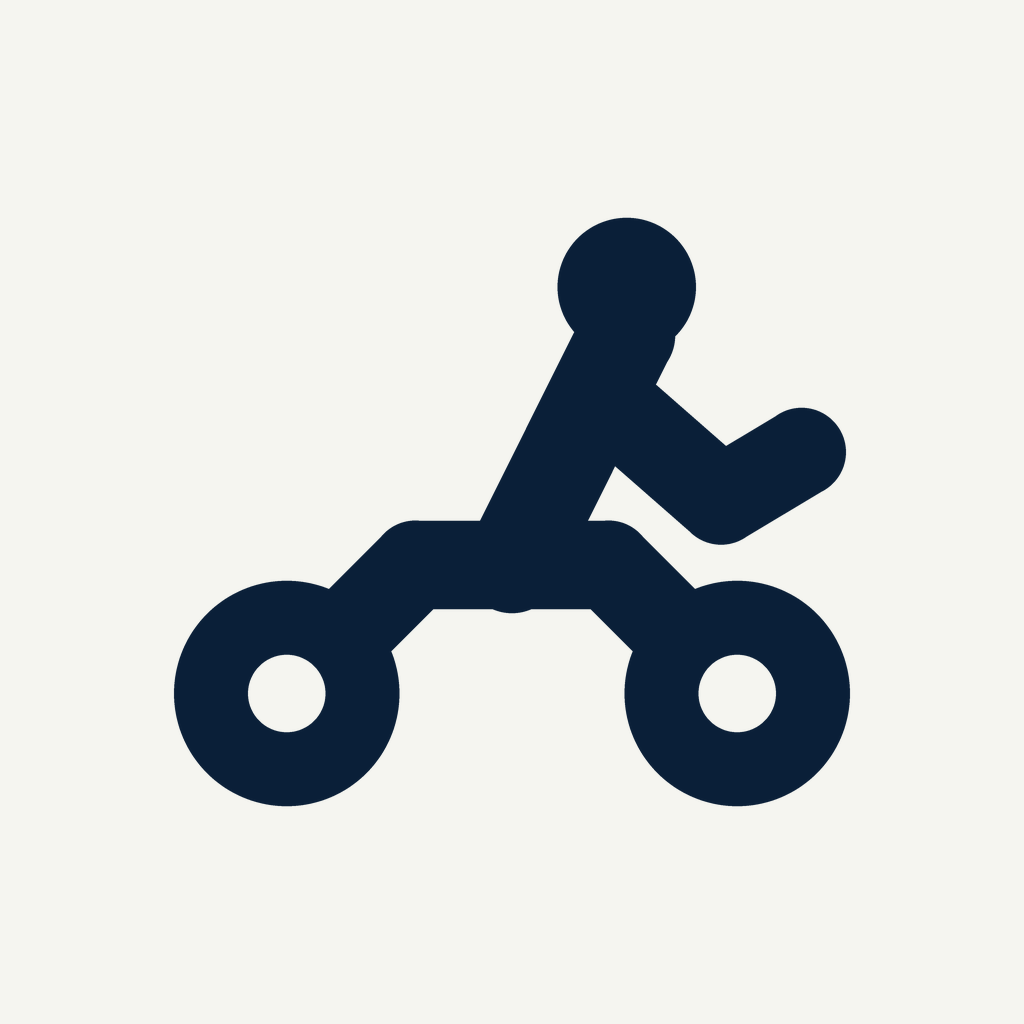
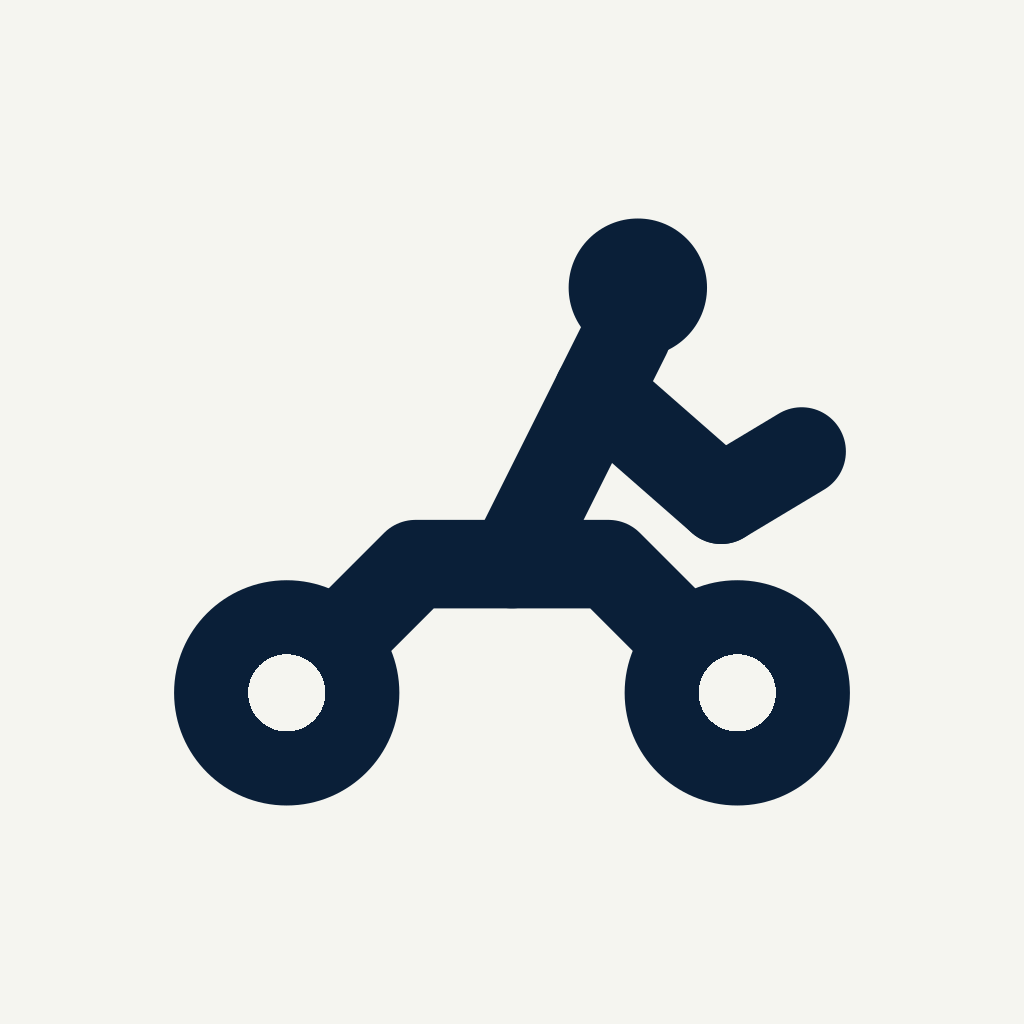
fix(brand): the lobe under the seat, and a neck that met the head crooked
Two faults the founder spotted on the launch screen, both measured on the
shipped PNG before anything was changed, both approved 3 September.

THE LOBE. The torso was stroke 6.0 while the frame is 5.5, so its round cap
reached y=19.00 against a frame rail whose underside sits at 18.75. A
rounded lobe hung below the frame directly under the rider: 0.25 units,
4.06px on the 1024 cut, and I measured about 4px on the asset. The torso is
now 5.5 and the cap lands exactly on the rail.

THE NECK. The head sits 3.0 from the torso's tip and used to sit straight
UP, while the torso arrives at 26.57 degrees off vertical. So the skull met
the neck at a different angle on each side. It is now offset at 13.3
degrees, half the lean: enough to clear the neck on both sides without
throwing the head over the bars. The founder compared five angles and took
this one. Head moves (31.13, -1.26) to (31.82, -1.18).

The locked pick of 30 August is otherwise untouched: A3 weight, run D
15.94, lean 63.4 degrees, even frame, no wordmark. Dots 1 to 9 of the
Okada Dot-to-Dot do not move; only dot 10 does. Ratio 1.150 to 1.159.

There is a third fault I did NOT fix. The head circle and the torso's top
cap cross, and two crossing circles always corner. Removing it needs either
run D shortened to about 14.2, which breaks the locked pick, or the head
grown from r4.3 to r6.0. It is a design trade, not a defect with a free
fix, so it stays.
[…]

diff --git a/seirs-app/scripts/build-mark-assets.js b/seirs-app/scripts/build-mark-assets.js
@@ -1,0 +1,187 @@
+/**
+ * SEIRS mark asset cutter.
+ *
+ *   node scripts/build-mark-assets.js
+ *
+ * Cuts all seven brand assets for all three apps from ONE geometry, below.
+ * Run it after any change to the mark, then rebuild the apps: the splash
+ * updates over the air but the launcher icon is baked into the APK.
+ *
+ * WHY THIS FILE EXISTS. The geometry used to live in three places that had
+ * drifted apart: seirs-icon-square.svg (last touched in the May sweep, still
+ * holding the un-stretched mark at ratio 1.400), the website's SeirsLogo.tsx
+ * (the real one, 1.148), and a build_assets.py that commit ededc06 names as
+ * the cutter but which is not in the repo at all. The shipped PNGs matched
+ * none of the committed sources. One file now, and the SVGs are generated
+ * from it rather than maintained by hand.
+ *
+ * THE GEOMETRY is the founder's locked pick of 30 August 2026: A3 weight,
+ * run D stretched to 15.94, lean 63.4 degrees, even frame, no wordmark.
+ * Two corrections were approved on 3 September:
+ *
+ *   1. Torso stroke 6.0 -> 5.5. At 6.0 its round cap reached y=19.00 while
+ *      the frame rail's underside is at y=18.75, so a rounded lobe hung
+ *      below the frame directly under the rider. 0.25 units, about 4px on
+ *      the 1024 cut. At 5.5 the cap lands exactly on the rail.
+ *
+ *   2. Head moved from (31.13, -1.26) to (31.82, -1.18). The head sits 3.0
+ *      from the torso's tip, and it used to sit straight UP while the torso
+ *      arrives at 26.57 degrees off vertical, so the neck met the skull at a
+ *      different angle on each side. It is now offset at 13.3 degrees, half
+ *      the lean: enough to clear the neck on both sides without throwing the
+ *      head over the bars. Founder picked option C of five.
+ *
+ * Dots 1 to 9 of the founder's Okada Dot-to-Dot are untouched. Only dot 10,
+ * the head centre, moves. Ratio goes 1.150 to 1.159.
+ *
+ * THE HUBS ARE PUNCHED AFTER RENDER, in pixels, not drawn in SVG.
+ *
+ * They have to be real holes: a hub-coloured disc would put an opaque blob
+ * into splash-icon.png where the ground should show through. Three SVG routes
+ * were tried and all three failed. Drawing the wheel as a ring is not enough,
+ * because the frame path STARTS at (10,24), the rear wheel's centre, so its
+ * round cap fills the hub from underneath. An SVG <mask> silently does nothing
+ * here, because putting `mask` and `transform` on the same element makes
+ * librsvg apply the transform to the mask's contents as well, so the cut
+ * circles land somewhere off the canvas. Punching the alpha channel after
+ * rasterising is exact, and it is checked below rather than assumed.
+ */
+
+const sharp = require('sharp');
+const fs    = require('fs');
+const path  = require('path');
+
+const ROOT = path.resolve(__dirname, '..');
+
+// ── The mark ────────────────────────────────────────────────────────────────
+const SW        = 5.5;                 // frame, arm, handlebar, and now torso
+const WHEEL_R   = 7.0;
+const HUB_R     = 2.4;
+const HEAD_R    = 4.3;
+const HEAD      = { x: 31.82, y: -1.18 };   // dot 10, at 13.3 degrees
+
+// Ink extent, in mark units. Left edge is the rear wheel, right edge the
+// front wheel, top the head, bottom the wheels.
+const round3 = (n) => Number(n.toFixed(3));
+const INK = {
+  x: round3(10 - WHEEL_R),
+  y: round3(HEAD.y - HEAD_R),
+  w: round3((38 + WHEEL_R) - (10 - WHEEL_R)),
+  h: round3((24 + WHEEL_R) - (HEAD.y - HEAD_R)),
+};
+
+const paths = (c) => `
+  <path d="M 10 24 L 18 16 L 30 16 L 38 24" stroke="${c}" stroke-width="${SW}"
+        stroke-linecap="round" stroke-linejoin="round" fill="none"/>
+  <circle cx="10" cy="24" r="${WHEEL_R}" fill="${c}"/>
+  <circle cx="38" cy="24" r="${WHEEL_R}" fill="${c}"/>
+  <line x1="37" y1="12" x2="42" y2="9" stroke="${c}" stroke-width="${SW}" stroke-linecap="round"/>
+  <line x1="24" y1="16" x2="31.13" y2="1.74" stroke="${c}" stroke-width="${SW}" stroke-linecap="round"/>
+  <circle cx="${HEAD.x}" cy="${HEAD.y}" r="${HEAD_R}" fill="${c}"/>
+  <line x1="29.35" y1="5.30" x2="37" y2="12" stroke="${c}" stroke-width="${SW}" stroke-linecap="round"/>`;
+
+/** One asset. `fill` is the mark's width as a fraction of the canvas. */
+function svg({ size, ground, mark, fill }) {
+  const s  = (size * fill) / INK.w;
+  const tx = (size - INK.w * s) / 2 - INK.x * s;
+  const ty = (size - INK.h * s) / 2 - INK.y * s;
+  const bg = ground ? `<rect width="${size}" height="${size}" fill="${ground}"/>` : '';
+  const body = `<?xml version="1.0" encoding="UTF-8"?>
+<svg xmlns="http://www.w3.org/2000/svg" width="${size}" height="${size}" viewBox="0 0 ${size} ${size}" fill="none">
+${bg}<g transform="translate(${tx}, ${ty}) scale(${s})">${paths(mark)}</g>
+</svg>`;
+  // where the two hubs land, in pixels, for the punch below
+  const hubs = [[10, 24], [38, 24]].map(([hx, hy]) => ({
+    cx: tx + hx * s, cy: ty + hy * s, r: HUB_R * s,
+  }));
+  return { body, hubs, ground };
+}
+
+/**
+ * Cut the hubs out of the rendered pixels. On a transparent asset the hub
+ * becomes a true hole; on an opaque one it is repainted with the ground, which
+ * is what the eye expects there anyway.
+ */
+async function punchHubs(buf, size, hubs, ground) {
+  const img = sharp(buf).ensureAlpha();
+  const { data, info } = await img.raw().toBuffer({ resolveWithObject: true });
+  const ch = info.channels;
+  const g = ground ? [0xF5, 0xF5, 0xF0] : null;
+  for (const { cx, cy, r } of hubs) {
+    const r2 = r * r;
+    const x0 = Math.max(0, Math.floor(cx - r - 1)), x1 = Math.min(size - 1, Math.ceil(cx + r + 1));
+    const y0 = Math.max(0, Math.floor(cy - r - 1)), y1 = Math.min(size - 1, Math.ceil(cy + r + 1));
+    for (let y = y0; y <= y1; y++) {
+      for (let x = x0; x <= x1; x++) {
+        const d2 = (x + 0.5 - cx) ** 2 + (y + 0.5 - cy) ** 2;
+        if (d2 > r2) continue;
+        const i = (y * info.width + x) * ch;
+        if (g) { data[i] = g[0]; data[i + 1] = g[1]; data[i + 2] = g[2]; data[i + 3] = 255; }
+        else   { data[i + 3] = 0; }
+      }
+    }
+  }
+  return sharp(data, { raw: { width: info.width, height: info.height, channels: ch } }).png().toBuffer();
+}
+
+const NAVY  = '#0A1F38';
+const CLOUD = '#F5F5F0';
+
+// Fills measured off the shipped assets so nothing shifts but the drawing.
+// The adaptive foreground is 0.445 rather than 0.66 because an adaptive
+// icon only shows the middle 72dp of a 108dp layer: 0.66 x 72/108 = 0.44.
+const ASSETS = [
+  { file: 'icon.png',                    size: 1024, ground: CLOUD, mark: NAVY,      fill: 0.660 },
+  { file: 'splash-icon.png',             size: 1024, ground: null,  mark: NAVY,      fill: 0.666 },
+  { file: 'splash-icon-dark.png',        size: 1024, ground: null,  mark: '#FFFFFF', fill: 0.666 },
+  { file: 'android-icon-foreground.png', size: 1024, ground: null,  mark: NAVY,      fill: 0.445 },
+  { file: 'android-icon-monochrome.png', size: 1024, ground: null,  mark: '#000000', fill: 0.445 },
+  { file: 'favicon.png',                 size: 48,   ground: CLOUD, mark: NAVY,      fill: 0.667 },
+];
+
+const APPS = ['customer-app', 'driver-app', 'business-app'];
+
+async function main() {
+  for (const app of APPS) {
+    const out = path.join(ROOT, 'apps', app, 'assets', 'images');
+    if (!fs.existsSync(out)) { console.warn(`skipping ${app}, no assets dir`); continue; }
+    console.log(`\n${app}`);
+
+    for (const a of ASSETS) {
+      const { body, hubs, ground } = svg(a);
+      const flat = await sharp(Buffer.from(body), { density: 384 })
+        .resize(a.size, a.size).png().toBuffer();
+      const cut = await punchHubs(flat, a.size, hubs, ground);
+      fs.writeFileSync(path.join(out, a.file), cut);
+      console.log(`  ${a.file}`);
+    }
+
+    // Flat ground behind the adaptive foreground. No mark on this one.
+    await sharp({ create: { width: 1024, height: 1024, channels: 4,
+                            background: { r: 245, g: 245, b: 240, alpha: 1 } } })
+      .png().toFile(path.join(out, 'android-icon-background.png'));
+    console.log('  android-icon-background.png');
+  }
+  console.log('\nDone. Launcher icons are baked into the APK at build time,');
+  // The two repo SVGs are GENERATED, not maintained. They had drifted to the
+  // un-stretched May mark (ratio 1.400) while the shipped PNGs were 1.148, so
+  // anyone editing them shipped the wrong drawing. Emitting them here keeps
+  // them honest.
+  const NL2 = String.fromCharCode(10);
+  const r = (n) => Number(n.toFixed(3));
+  const banner = '<!-- GENERATED by scripts/build-mark-assets.js. Do not edit by hand.' + NL2 +
+                 '     Edit the geometry in that script and re-run it. -->';
+  const sq = '<?xml version="1.0" encoding="UTF-8"?>' + NL2 + banner + NL2 +
+    `<svg xmlns="http://www.w3.org/2000/svg" viewBox="${INK.x} ${INK.y} ${INK.w} ${INK.h}" fill="none">` + NL2 +
+    `<g>${paths('#0A1F38')}` + NL2 +
+    `  <circle cx="10" cy="24" r="${HUB_R}" fill="#F5F5F0"/>` + NL2 +
+    `  <circle cx="38" cy="24" r="${HUB_R}" fill="#F5F5F0"/>` + NL2 +
+    '</g>' + NL2 + '</svg>' + NL2;
+  fs.writeFileSync(path.join(ROOT, 'seirs-icon-square.svg'), sq);
+  fs.writeFileSync(path.join(ROOT, 'seirs-icon.svg'), sq);
+  console.log('seirs-icon-square.svg and seirs-icon.svg regenerated');
+
+  console.log('so rebuild and reinstall before they change on a phone.');
+}
+
+main().catch(err => { console.error('Asset cut failed:', err); process.exit(1); });

diff --git a/seirs-app/apps/seirs-website/src/components/SeirsLogo.tsx b/seirs-app/apps/seirs-website/src/components/SeirsLogo.tsx
@@ -73,14 +73,25 @@ function SeirsMark({
    * its second navy.
    *
    * Geometry matches the cut assets: the A3 weight, stroke 5.5, solid
-   * wheels r7.0 with r2.4 hubs, torso 6.0, head r4.3. The founder compared
+   * wheels r7.0 with r2.4 hubs, torso 5.5, head r4.3. The founder compared
    * A3 against A4 on a real phone on 2026-08-30 and took the lighter set;
    * A4 was 6.5 / 7.0 / 7.6 / 2.6 / 4.8. Line coordinates are unchanged
    * between the two weights, only the radii and stroke widths move. The
    * viewBox is cropped to the ink, which is why it is no longer 0 0 48 32
    * -- the stretched rider's head sits above y=0.
+   *
+   * Two corrections, founder-approved 2026-09-03. The torso drops from 6.0
+   * to 5.5: at 6.0 its round cap reached y=19.00 while the frame rail's
+   * underside sits at 18.75, so a rounded lobe hung below the frame right
+   * under the rider. And the head moves from (31.13, -1.26) to
+   * (31.82, -1.18): it sits 3.0 from the torso's tip and used to sit
+   * straight UP while the torso arrives at 26.57 degrees off vertical, so
+   * the neck met the skull at a different angle on each side. It is now
+   * offset at 13.3 degrees, half the lean. The ink top moves with it, hence
+   * the viewBox. Cut by scripts/build-mark-assets.js, which is the one
+   * source for all seven assets now.
    */
-  const VB_X = 3.0, VB_Y = -5.56, VB_W = 42.0, VB_H = 36.56;
+  const VB_X = 3.0, VB_Y = -5.48, VB_W = 42.0, VB_H = 36.48;
   const height = size * (VB_H / VB_W);
   const SW = 5.5;
 
@@ -102,8 +113,8 @@ function SeirsMark({
       <circle cx={38} cy={24} r={7.0} fill={color} />
       <circle cx={38} cy={24} r={2.4} fill={hubColor} />
       <line x1={37} y1={12} x2={42} y2={9} stroke={color} strokeWidth={SW} strokeLinecap="round" />
-      <line x1={24} y1={16} x2={31.13} y2={1.74} stroke={color} strokeWidth={6} strokeLinecap="round" />
-      <circle cx={31.13} cy={-1.26} r={4.3} fill={color} />
+      <line x1={24} y1={16} x2={31.13} y2={1.74} stroke={color} strokeWidth={SW} strokeLinecap="round" />
+      <circle cx={31.82} cy={-1.18} r={4.3} fill={color} />
       <line x1={29.35} y1={5.30} x2={37} y2={12} stroke={color} strokeWidth={SW} strokeLinecap="round" />
     </svg>
   );
